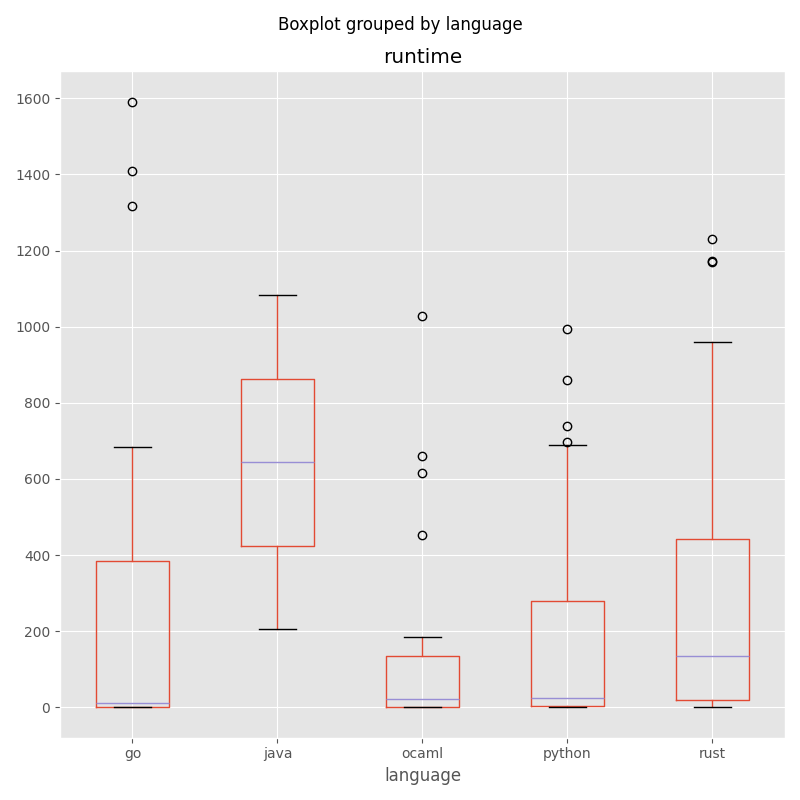
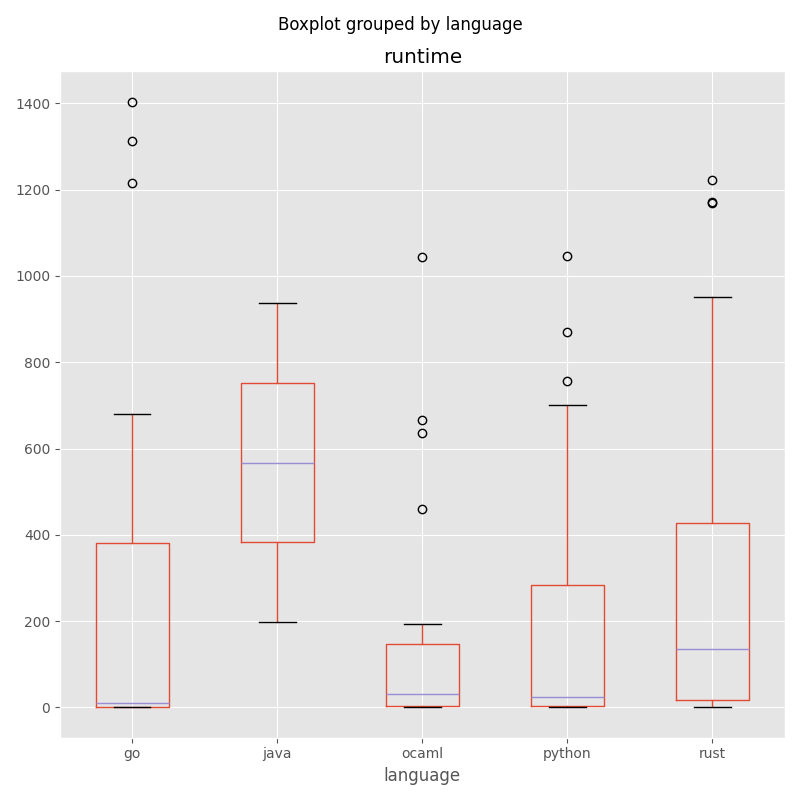
Minor graph update, Java 21 runs 2019/18 in close to 900ms

diff --git a/README.md b/README.md
@@ -262,10 +262,9 @@ a_graph \
 | ---- | --- | ------------ | -------- | ------------------------------------------------------- |
 | 2016 | 14  | 1394.71      | Go       | Batched implementation of md5                           |
 | 2016 | 5   | 1322.47      | Go       | Batched implementation of md5                           |
-| 2022 | 15  | 1206.56      | Rust     | Dealing with large space                                |
-| 2021 | 23  | 1190.90      | Go       | Complex path finding problem                            |
+| 2022 | 15  | 1223.15      | Rust     | Dealing with large space                                |
+| 2021 | 23  | 1214.76      | Go       | Complex path finding problem                            |
 | 2018 | 15  | 1159.35      | Rust     | Complex game state with path finding between characters |
 | 2019 | 25  | 1154.32      | Rust     | Mostly spends time permuting through the items          |
-| 2019 | 18  | 1097.30      | Java     | Can likely minimize state to make lookups faster        |
 | 2023 | 25  | 1046.72      | Ocaml    | Uses Karger algorithm which has randomness, time varies |
 | 2016 | 11  | 1012.55      | Python   | That chips and generator problem                        |
